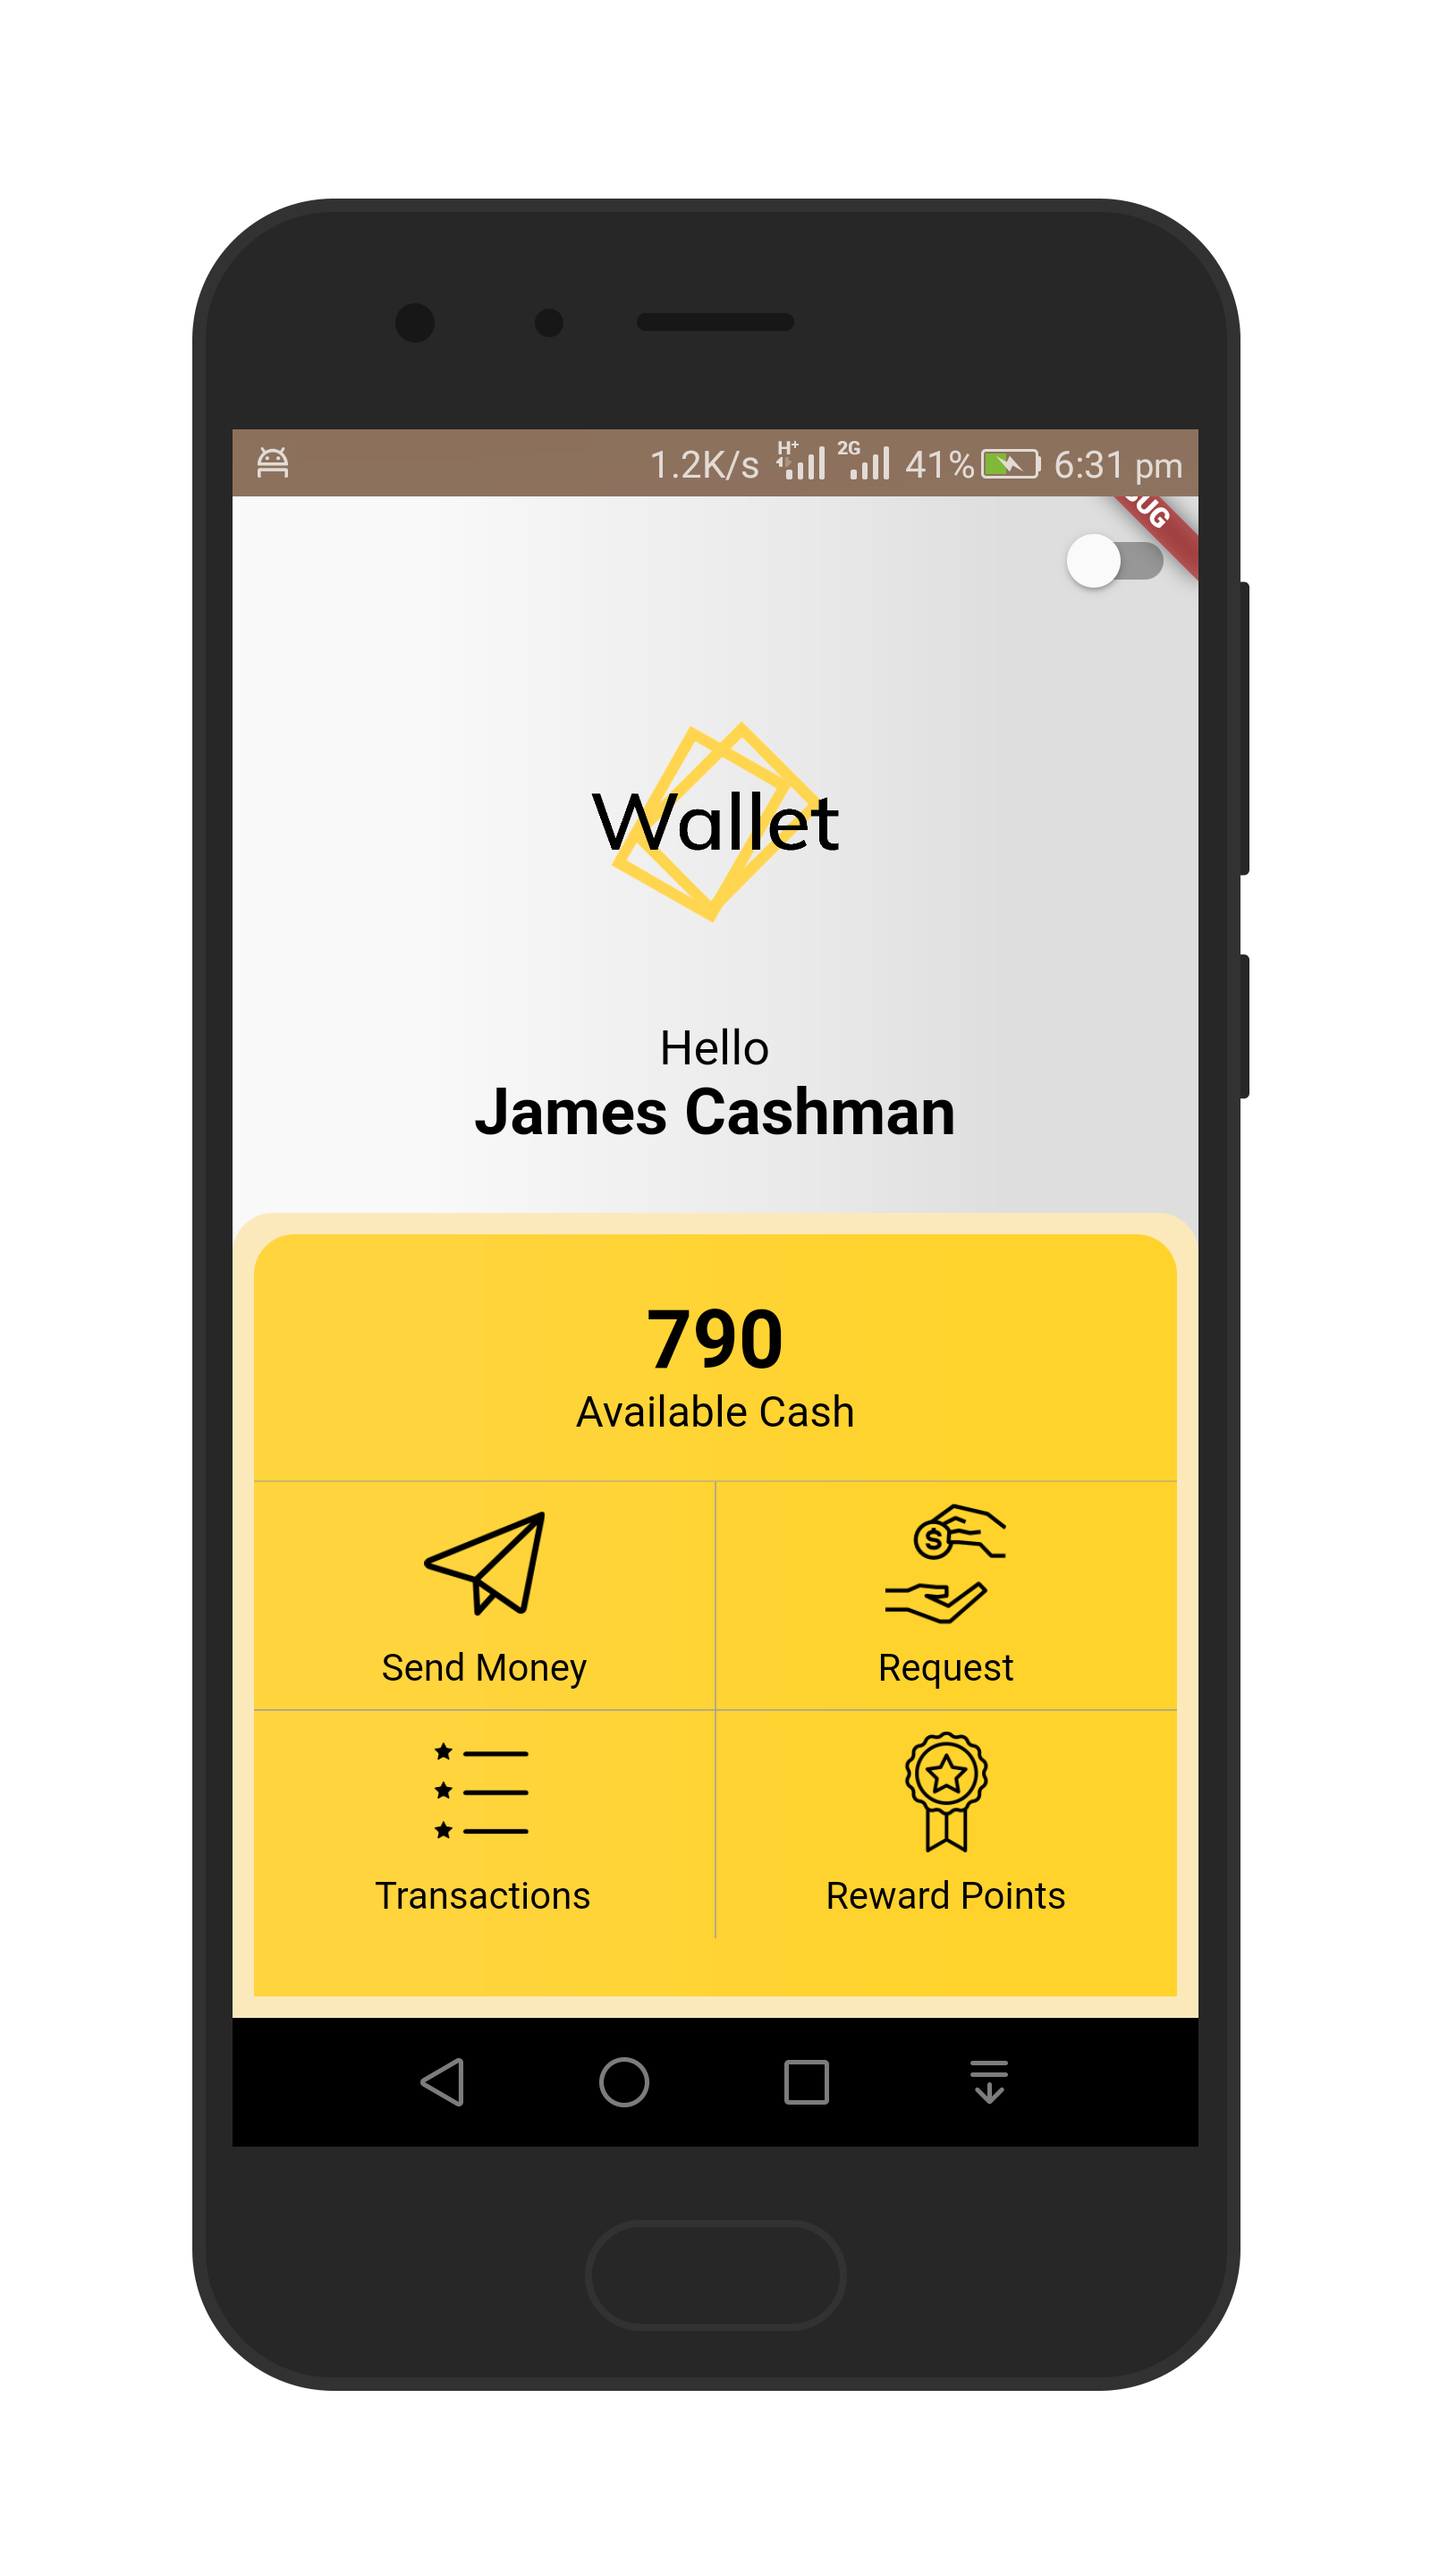
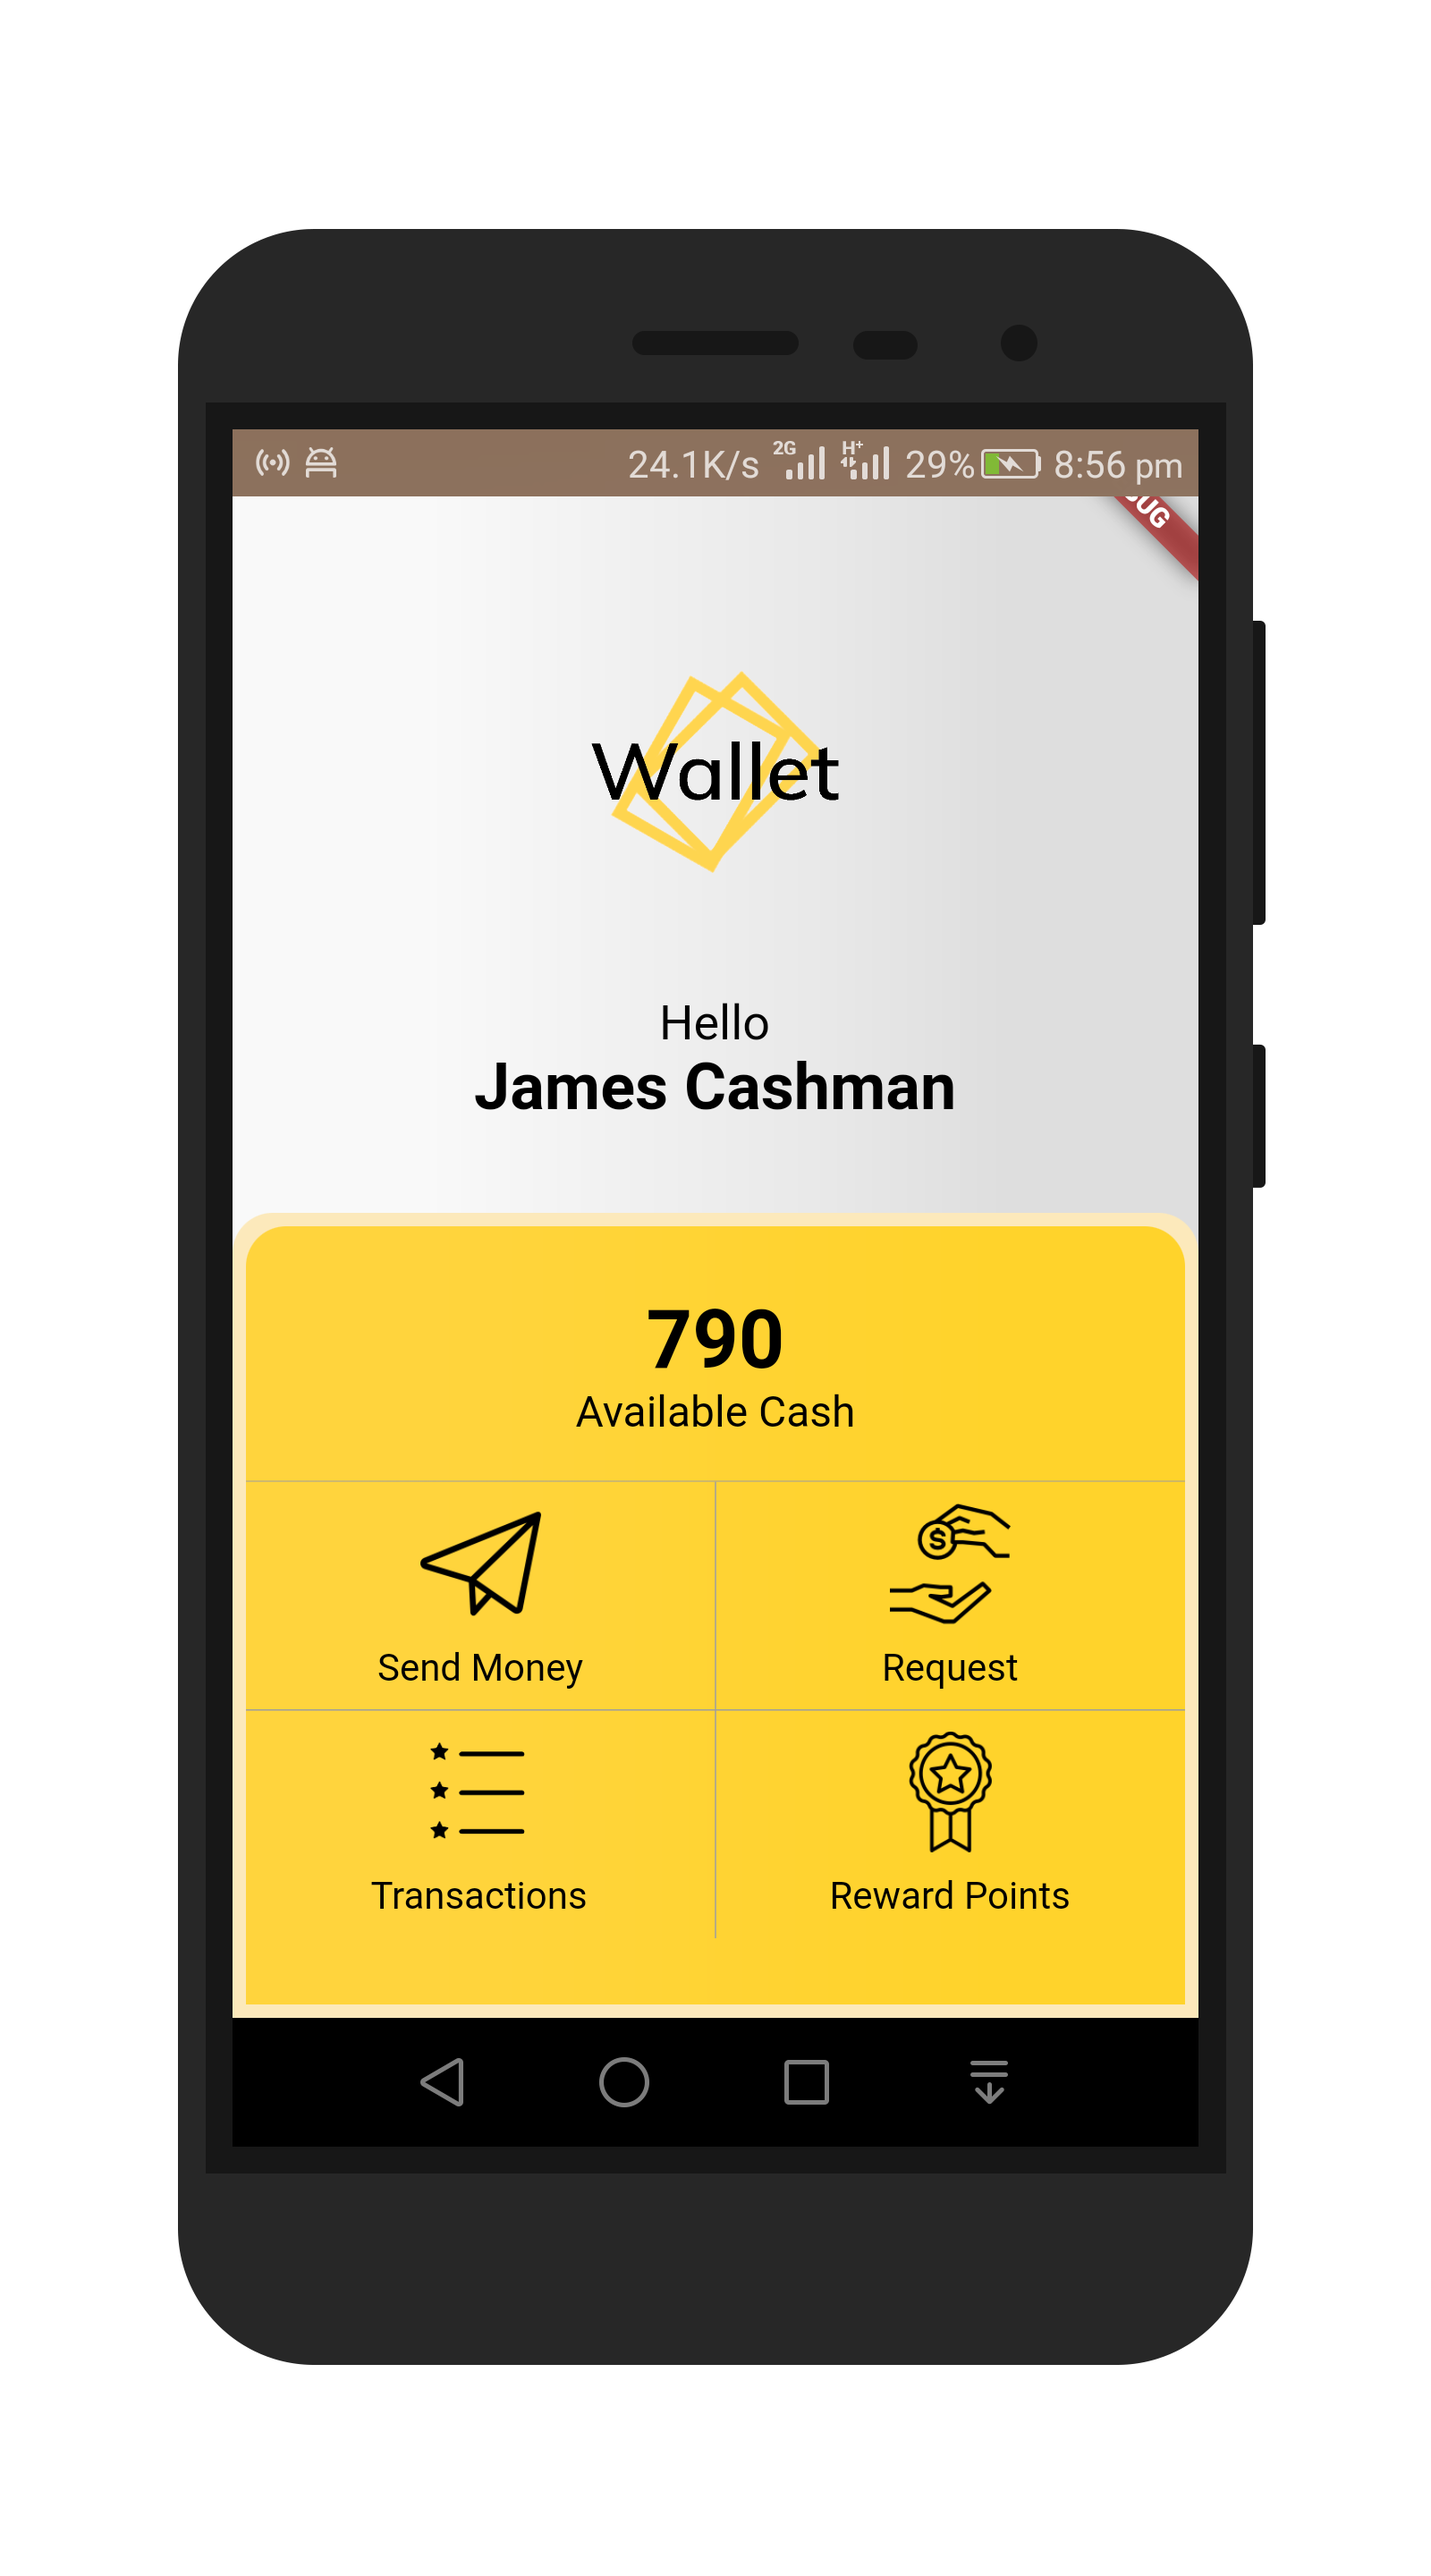
fix background gradient color

diff --git a/lib/main.dart b/lib/main.dart
@@ -35,10 +35,10 @@ class _DashBoardPageState extends State<DashBoardPage> {
       setState(() {
         logoImage = 'assets/images/wallet_dark_logo.png';
         _backgroundColor = [
-          Color.fromRGBO(255, 212, 61, 1),
-          Color.fromRGBO(255, 212, 55, 1),
-          Color.fromRGBO(255, 211, 48, 1),
-          Color.fromRGBO(255, 211, 43, 1),
+          Color.fromRGBO(252, 214, 0, 1),
+          Color.fromRGBO(251, 207, 6, 1),
+          Color.fromRGBO(250, 197, 16, 1),
+          Color.fromRGBO(249, 161, 28, 1),
         ];
         _iconColor = Colors.white;
         _textColor = Color.fromRGBO(253, 211, 4, 1);
@@ -83,29 +83,31 @@ class _DashBoardPageState extends State<DashBoardPage> {
     return SafeArea(
       child: Scaffold(
         body: GestureDetector(
-          onLongPress: (){
-  if (colorSwitched) {
-                        colorSwitched = false;
-                      } else {
-                        colorSwitched = true;
-                      }
-                      changeTheme();
+          onLongPress: () {
+            if (colorSwitched) {
+              colorSwitched = false;
+            } else {
+              colorSwitched = true;
+            }
+            changeTheme();
           },
-                  child: Container(
+          child: Container(
             height: MediaQuery.of(context).size.height,
             width: MediaQuery.of(context).size.width,
             decoration: BoxDecoration(
                 gradient: LinearGradient(
                     begin: Alignment.centerLeft,
                     end: Alignment.centerRight,
-                    stops: [0.2, 0.4, 0.6, 0.8],
+                    stops: [0.2, 0.3, 0.5, 0.8],
                     colors: _backgroundColor)),
             child: Column(
               mainAxisSize: MainAxisSize.max,
               crossAxisAlignment: CrossAxisAlignment.center,
               mainAxisAlignment: MainAxisAlignment.spaceBetween,
               children: <Widget>[
-      
+                SizedBox(
+                  height: 20.0,
+                ),
                 Image.asset(
                   logoImage,
                   fit: BoxFit.contain,
@@ -136,7 +138,7 @@ class _DashBoardPageState extends State<DashBoardPage> {
                           topLeft: Radius.circular(15),
                           topRight: Radius.circular(15))),
                   child: Padding(
-                    padding: const EdgeInsets.all(8.0),
+                    padding: const EdgeInsets.all(5.0),
                     child: Container(
                       decoration: BoxDecoration(
                           borderRadius: BorderRadius.only(

diff --git a/README.md b/README.md
@@ -39,6 +39,9 @@ C:\path\to\project> flutter run
 
 ```
 
+##Switch themes
+Long press to switch Theme
+
 A few resources to get you started if this is your first Flutter project:
 
 - [Lab: Write your first Flutter app](https://flutter.io/docs/get-started/codelab)
